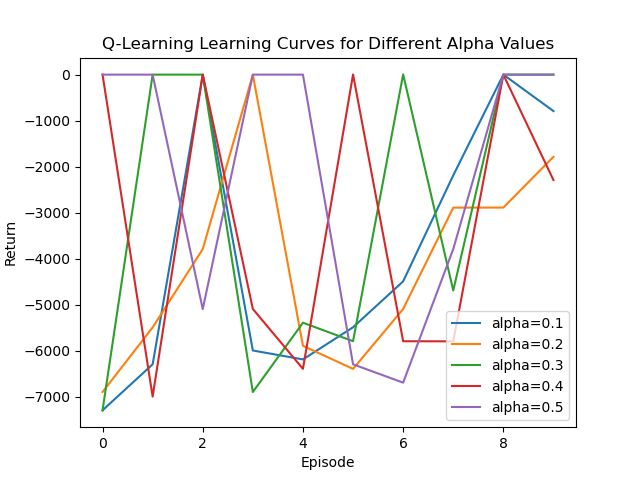
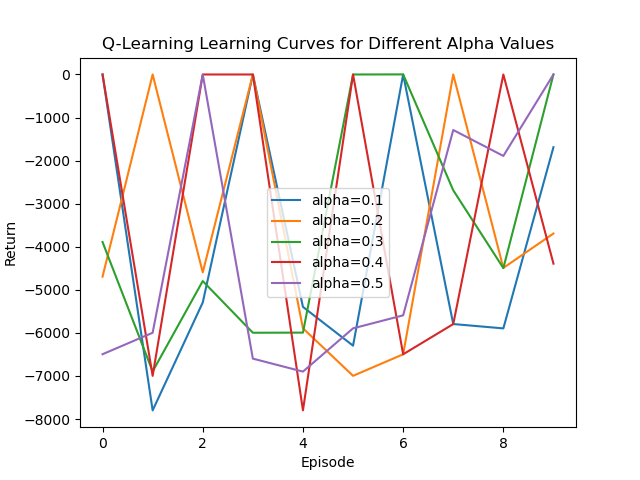
added trajectory plots

diff --git a/qLearning_pendulum.py b/qLearning_pendulum.py
@@ -1,6 +1,10 @@
 import numpy as np
 import matplotlib.pyplot as plt
 import discrete_pendulum
+import time
+
+cpu_start_time = time.process_time()
+start_time = time.time()
 
 def q_learning(env, num_episodes, alpha, gamma, epsilon):
     Q = np.zeros((env.num_states, env.num_actions))
@@ -29,11 +33,10 @@ def q_learning(env, num_episodes, alpha, gamma, epsilon):
     policy = np.argmax(Q, axis=1)
     return Q, V, policy, returns
 
-
 env = discrete_pendulum.Pendulum()
 
 # Plot 1 - Return vs. Episodes
-Q, V, policy, returns = q_learning(env, num_episodes=500, alpha=0.1, gamma=0.9, epsilon=0.1)
+Q, V, policy, returns = q_learning(env, num_episodes=500, alpha=0.1, gamma=0.95, epsilon=0.1)
 plt.plot(range(len(returns)), returns)
 plt.xlabel('Episode')
 plt.ylabel('Return')
@@ -46,7 +49,7 @@ epsilons = [0.1, 0.2, 0.3, 0.4, 0.5]
 num_episodes = 10
 fig, ax = plt.subplots()
 for epsilon in epsilons:
-    _, _, _, returns = q_learning(env, num_episodes=num_episodes, alpha=0.1, gamma=0.9, epsilon=epsilon)
+    _, _, _, returns = q_learning(env, num_episodes=num_episodes, alpha=0.1, gamma=0.95, epsilon=epsilon)
     ax.plot(range(num_episodes), returns, label=f'epsilon={epsilon}')
 ax.legend()
 ax.set_xlabel('Episode')
@@ -60,7 +63,7 @@ alphas = [0.1, 0.2, 0.3, 0.4, 0.5]
 num_episodes = 10
 fig, ax = plt.subplots()
 for alpha in alphas:
-    _, _, _, returns = q_learning(env, num_episodes=num_episodes, alpha=alpha, gamma=0.9, epsilon=0.1)
+    _, _, _, returns = q_learning(env, num_episodes=num_episodes, alpha=alpha, gamma=0.95, epsilon=0.1)
     ax.plot(range(num_episodes), returns, label=f'alpha={alpha}')
 ax.legend()
 ax.set_xlabel('Episode')
@@ -68,3 +71,32 @@ ax.set_ylabel('Return')
 ax.set_title('Q-Learning Learning Curves for Different Alpha Values')
 plt.savefig('figures/pendulum/ql_learning_curves_alpha.png')
 #plt.show()
+
+# Plot 4 - Example Trajectories for Different Policies
+num_trajectories = 5
+time_steps = 100
+fig, ax = plt.subplots()
+for i in range(num_trajectories):
+    s = env.reset()
+    trajectory = [s]
+    for t in range(time_steps):
+        a = policy[s]
+        s, _, done = env.step(a)
+        trajectory.append(s)
+        if done:
+            break
+ax.plot(trajectory, label=f'Trajectory {i+1}')
+ax.legend()
+ax.set_xlabel('Time Step')
+ax.set_ylabel('State')
+ax.set_title('Example Trajectories for Different Policies')
+plt.savefig('figures/pendulum/ql_example_trajectories.png')
+#plt.show()
+
+cpu_end_time = time.process_time()
+cpu_time_taken = cpu_end_time - cpu_start_time
+print(f"CPU time taken: {cpu_time_taken:.4f} seconds")
+
+end_time = time.time()
+processing_time = end_time - start_time
+print(f"Processing time: {processing_time:.2f} seconds")

diff --git a/discrete_pendulum.py b/discrete_pendulum.py
@@ -14,6 +14,7 @@ class Pendulum():
 
         # Maximum absolute angular velocity
         self.max_thetadot = 15.0
+        self.max_speed = 8
 
         # Maximum absolute angle to be considered "upright"
         self.max_theta_for_upright = 0.1 * np.pi
